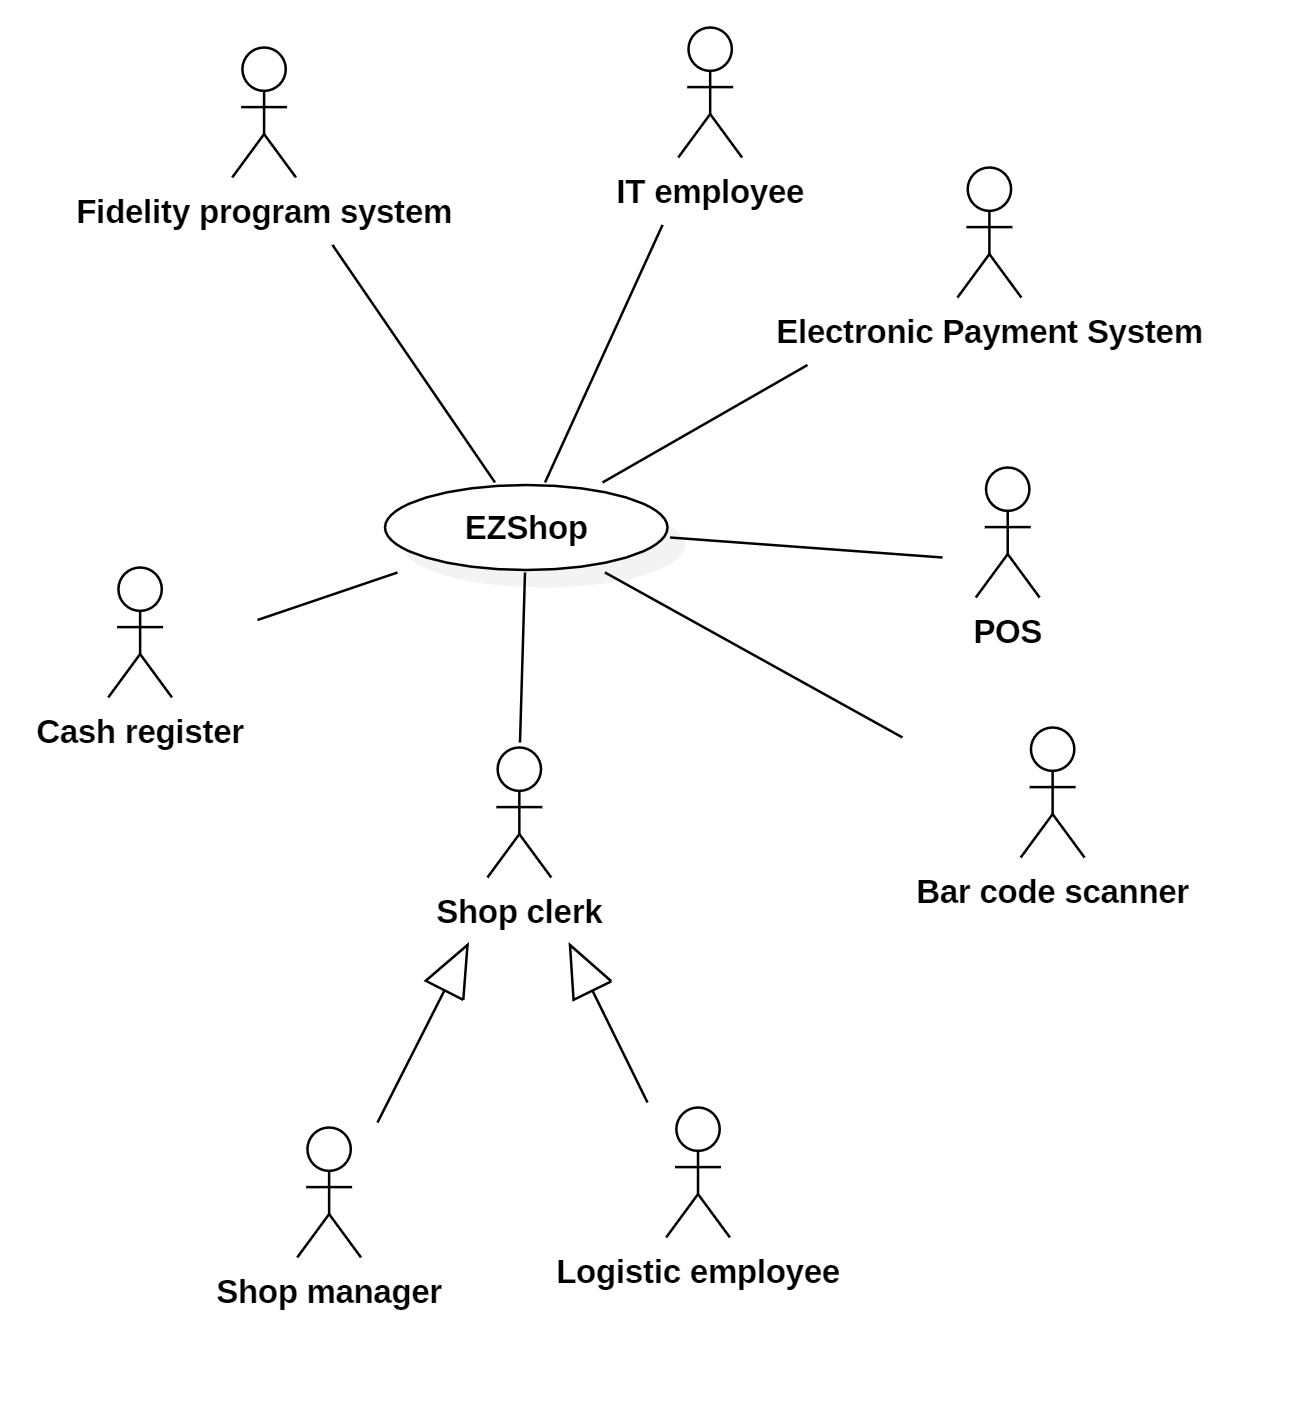
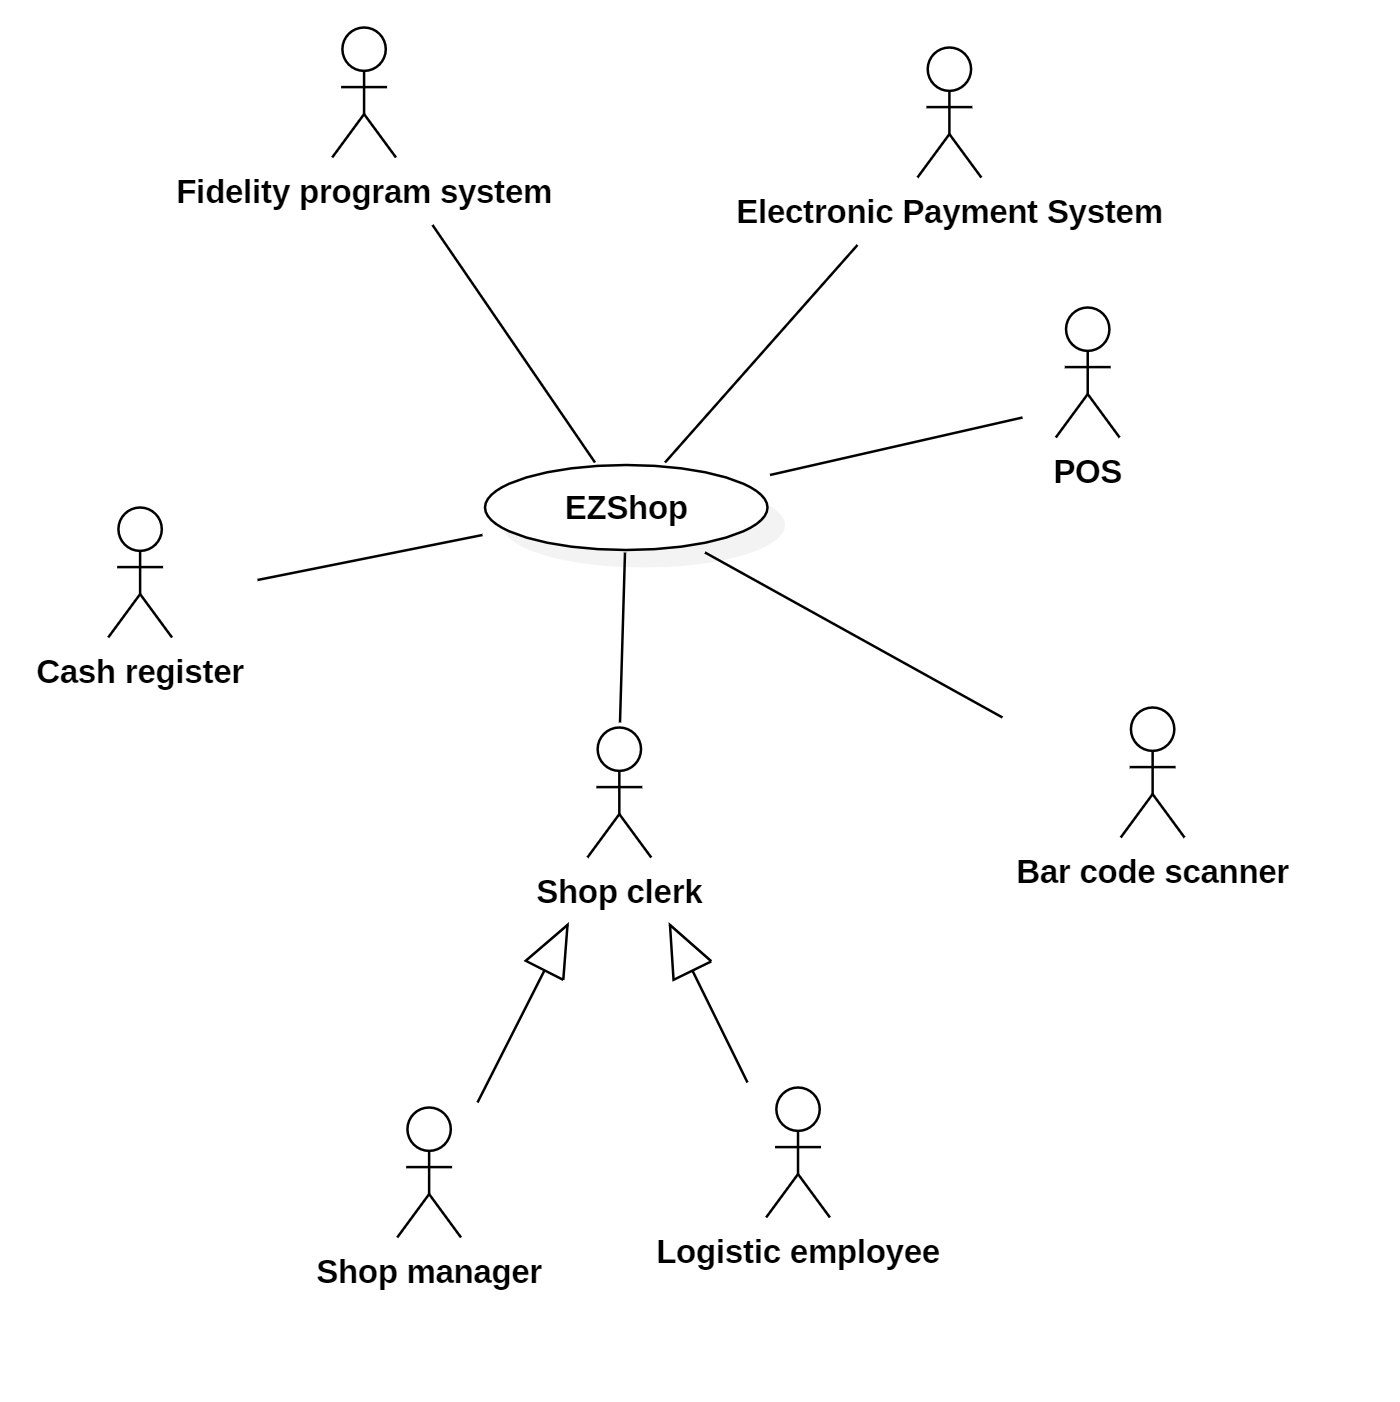
Update use case diagram, context diagram

diff --git a/Deliverables/RequirementsDocument.md b/Deliverables/RequirementsDocument.md
@@ -75,7 +75,6 @@ EZShop is a software application to:
 | Shop manager    | GUI  | Screen, keyboard, mouse |
 | Shop clerks | GUI | Touchscreen display, cash register |
 | Logistic employees | GUI |Screen, keyboard, mouse |
-| IT employee(s) | GUI | Screen, keyboard, mouse |
 | Electronic Payment system(s) | API | Internet cable | 
 | Cash register | API | LAN Connectors |
 | Fidelity Program system | API | Internet cable |
@@ -195,7 +194,7 @@ He/She inserts all necesseray data (price, name, producer, barcode...) and defin
 
 
 ## Use case diagram
-<img src="../Images/UseCaseDiagram.png" width="1000" height="700">
+<img src="../Images/UseCaseDiagram.png" width="800" height="700">
 
 
 
@@ -345,7 +344,7 @@ He/She inserts all necesseray data (price, name, producer, barcode...) and defin
 
 
 ### Clerk performs checkout for a customer, UC7
-| Actors Involved        | Clerk, customer, fidelity card system, Electronic Payment System, cash register  |
+| Actors Involved        | Clerk, customer, fidelity card system, Electronic Payment System, cash register, POS |
 | ------------- |:-------------| 
 |  Precondition     | The clerk is succesfully logged in the system and the cash-opening procedure has been performed before   |  
 |  Post condition     | The checkout procedure ends and the inventory is updated |
